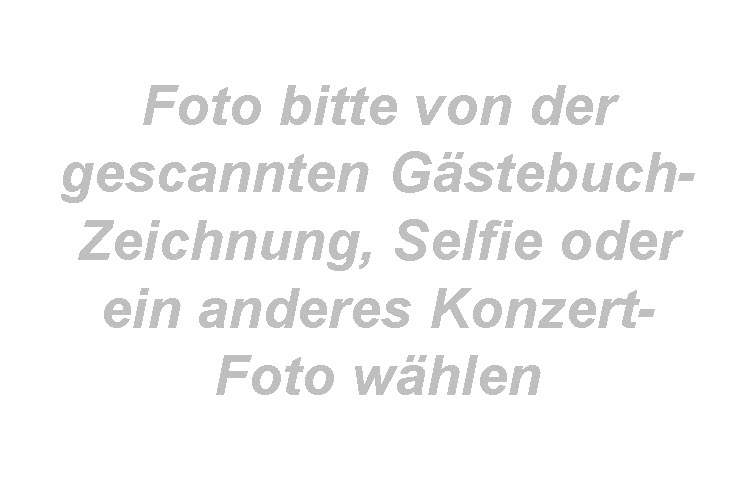
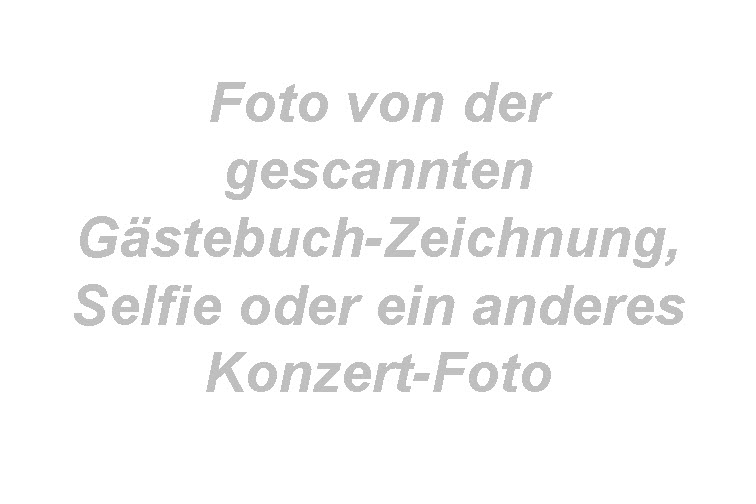
Start instructions as text and not image

diff --git a/Scripts/GuestbookUploadElements.js b/Scripts/GuestbookUploadElements.js
@@ -1,5 +1,5 @@
 // File: GuestbookUploadElements.js
-// Date: 2024-01-29
+// Date: 2024-02-04
 // Author: Gunnar Liden
 
 // File content
@@ -188,6 +188,34 @@ function getIdDivImageUploadIcon()
     return 'id_div_upload_icon';
 
 } // getIdDivImageUploadIcon
+
+// Hides the container element div for the upload start instructions
+function hideElementDivUploadStartInstructions()
+{
+    getElementDivUploadStartInstructions().style.display = 'none';
+
+} // hideElementDivUploadStartInstructions
+
+// Displays the container element div for the upload start instructions
+function displayElementDivUploadStartInstructions()
+{
+    getElementDivUploadStartInstructions().style.display = 'block';
+
+} // displayElementDivUploadStartInstructions
+
+// Returns the container element div for the upload start instructions
+function getElementDivUploadStartInstructions()
+{
+    return document.getElementById(getIdDivUploadStartInstructions());
+
+} // getElementDivUploadStartInstructions
+
+// Returns the identity of the container div for the upload start instructions
+function getIdDivUploadStartInstructions()
+{
+    return 'id_div_start_instructions';
+
+} // getIdDivUploadStartInstructions
 
 // Returns the container element <div> continer for the JazzUploadImage object
 function getElementDivUploadFileImage()

diff --git a/Scripts/GuestbookUpload.js b/Scripts/GuestbookUpload.js
@@ -52,6 +52,11 @@ function callbackAllXmlObjectsCreatedForUpload()
 
     hideElementDivUploadContainerTwo();
 
+    setUploadTestInstructions();
+
+    // Alternative to instructions with text
+    hideElementDivImageUploadIcon();
+
     hideElementDivUploadTexts();
 
     hideElementDivUploadButtonForwardTwo();
@@ -109,7 +114,7 @@ function onClickRequestCodeButton()
         return;
     }
 
-    hideElementDivImageUploadIcon();
+    hideElementDivUploadStartInstructions();
 
     sendGuestbookCodeEmail();
 
@@ -792,6 +797,14 @@ function setUploadGuestbookTitle()
 
 } // setUploadGuestbookTitle
 
+// Sets the title for the upload guest application
+function setUploadTestInstructions()
+{
+    var el_div_test_instructions = getElementDivUploadStartInstructions();
+
+    el_div_test_instructions.innerHTML = GuestStr.startUploadInstructionText();
+
+} // setUploadTestInstructions
 
 ///////////////////////////////////////////////////////////////////////////////////////////
 ///////////////////////// End Set Functions ///////////////////////////////////////////////

diff --git a/Scripts/GuestStr.js b/Scripts/GuestStr.js
@@ -508,5 +508,20 @@ class GuestStr
 
     } // placeholderTitleImageUpload
 
+    // Start upload instruction text
+    static startUploadInstructionText()
+    {
+        var ret_str = '';
+
+        ret_str = ret_str + 'Mach zuerst gerne eine Zeichnung für unser Gästebuch und scanne sie mit der Kamera.' + '<br>' + '<br>';
+
+        ret_str = ret_str + 'Ein Selfie oder ein Konzert-Foto ist auch willkommen.' + '<br>' + '<br>';
+
+        ret_str = ret_str + 'Danach mit dieser App das Foto aufladen.';
+
+        return  ret_str;
+
+    } // startUploadInstructionText
+
 
 } // GuestStr

diff --git a/GuestbookUpload.htm b/GuestbookUpload.htm
@@ -94,6 +94,9 @@
             <div id="id_div_upload_icon" class="cl_div_upload_icon">
                 <img src= "Icons/guestbook_upload.jpg" >
             </div>
+            <div id="id_div_start_instructions" class="cl_div_start_instructions">
+                Start instructions ....
+            </div>
         </div> 
 
         <div id="id_div_upload_container_part_two" class="cl_div_upload_container_part_two" >

diff --git a/Styles/GuestbookUpload.css b/Styles/GuestbookUpload.css
@@ -178,9 +178,19 @@ button
     clear: both;    
 }
 
+.cl_div_start_instructions
+{
+    font-size: 25px;
+    font-weight: bold;
+    text-align: center; 
+    padding: 5px;
+    clear: both;    
+}
+
+/* Alternative start instructions with a picture  */
 .cl_div_upload_icon
 {
-    clear: both;    
+    clear: both;   
 }
 
 .cl_div_upload_icon img
